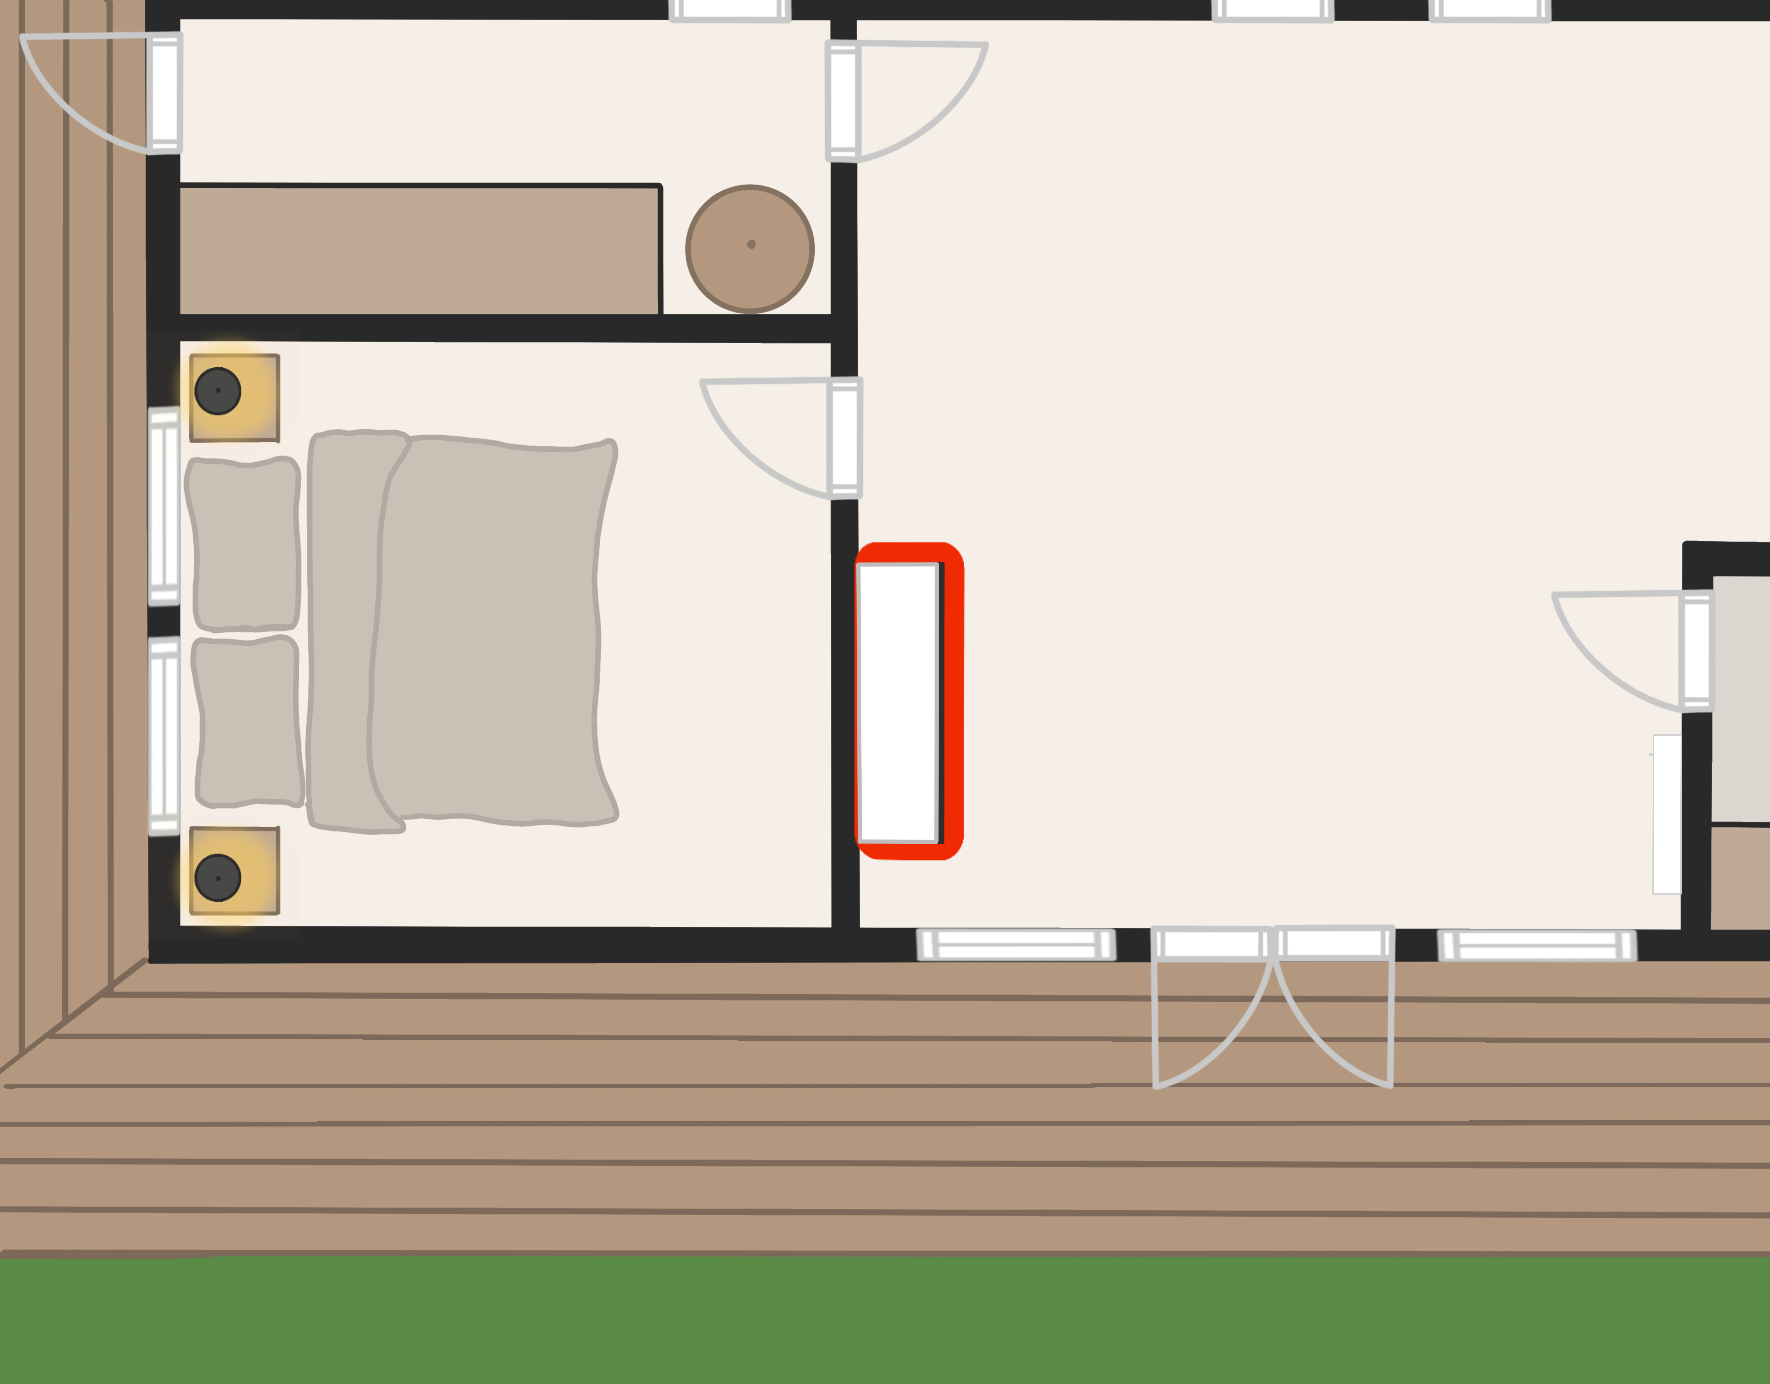
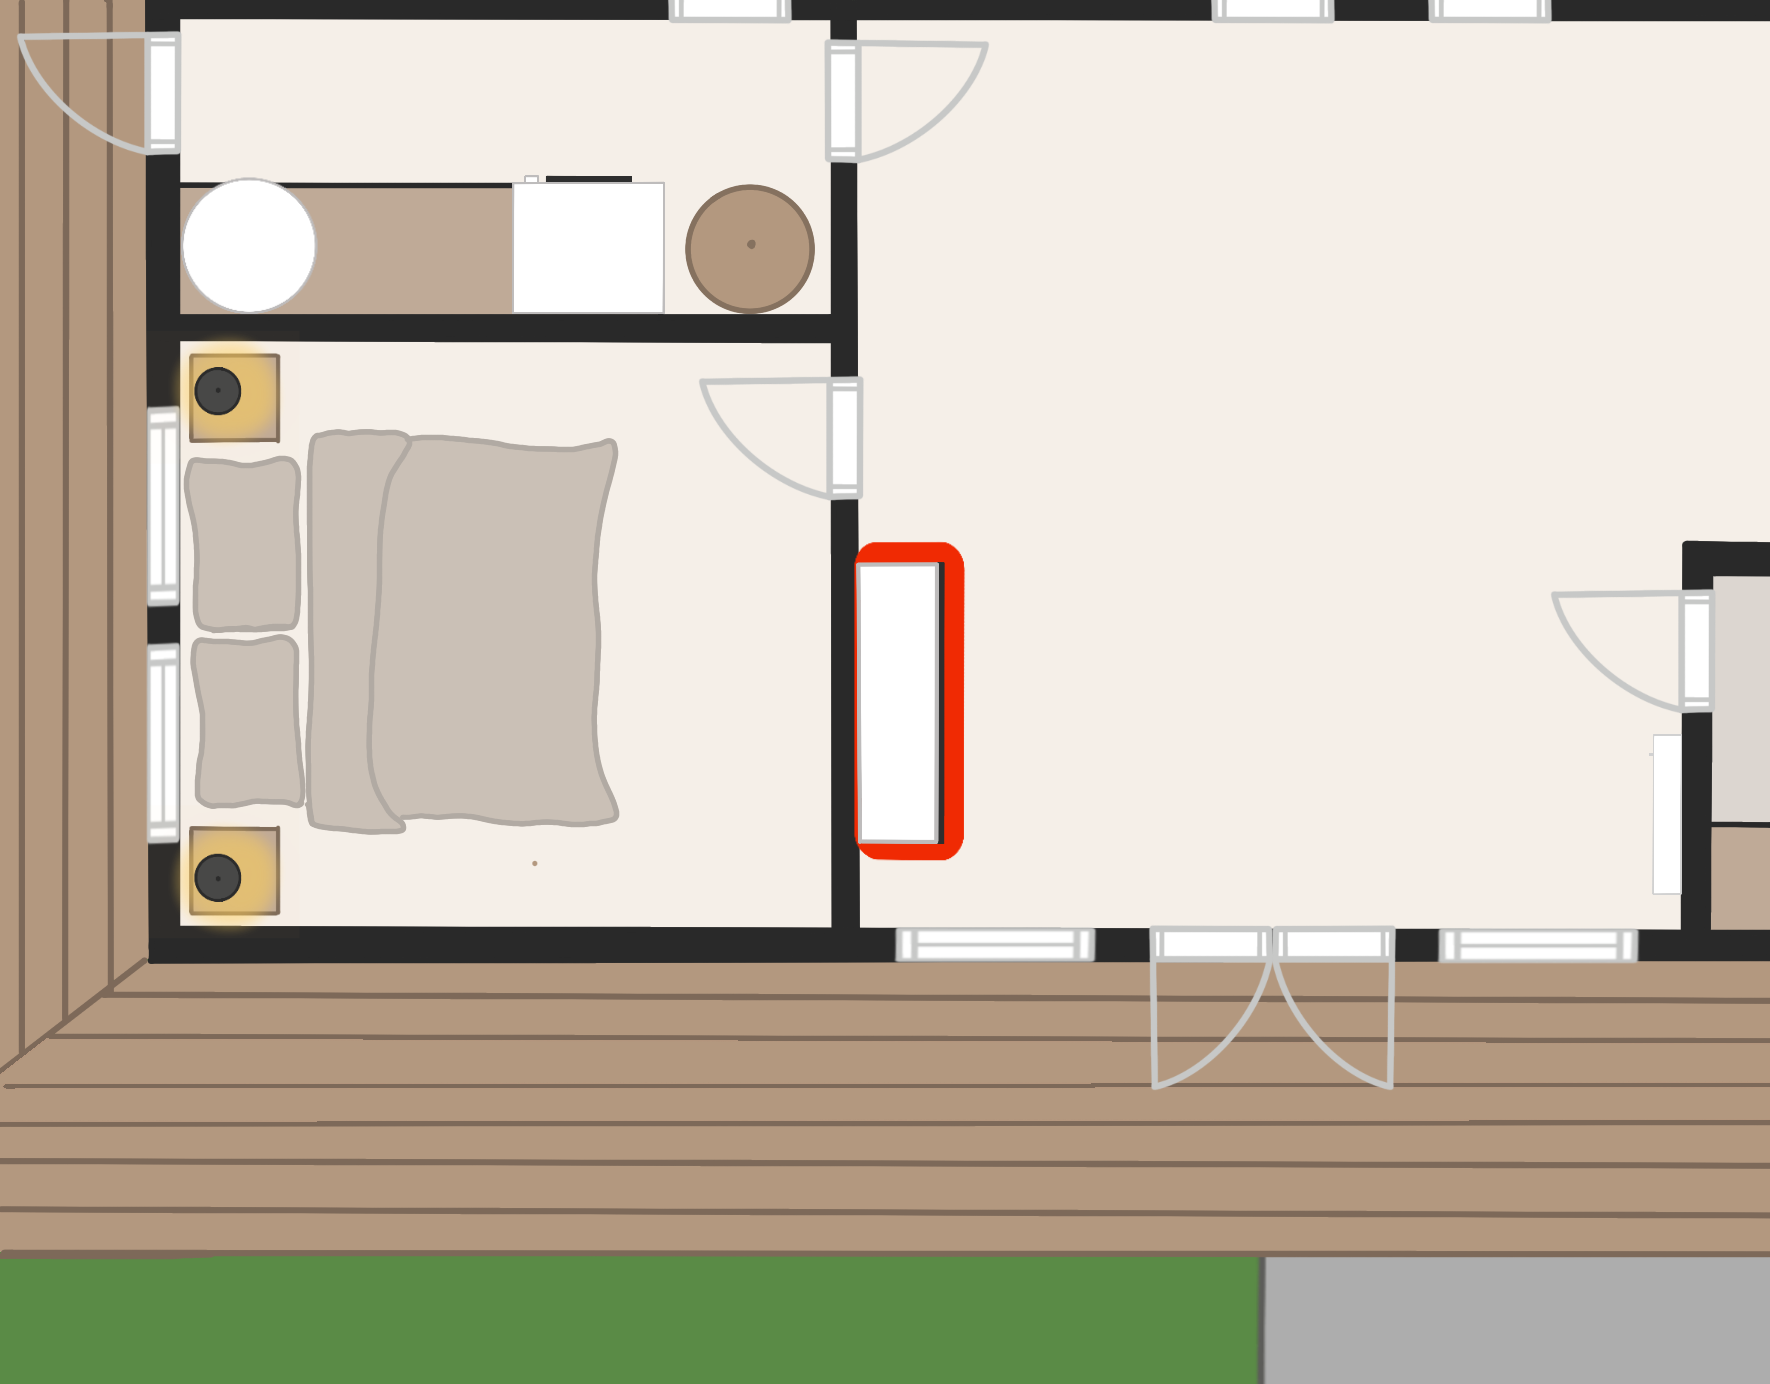
Component views (#70)
* Fixed small details in component views

* Fixed locations of components in the demo

* Few details fixed in texts

---------

diff --git a/frontend/src/components/EnergyComponentPage.jsx b/frontend/src/components/EnergyComponentPage.jsx
@@ -375,7 +375,7 @@ const EnergyComponentPage = () => {
                             <Typography 
                               variant="body2"
                               sx={{margin: 2}}
-                              >Total production {totalProduction} kWh
+                              >Total production: {totalProduction} kWh
                             </Typography>
                             {productionData.length > 0 &&
                               <BarChart
@@ -451,7 +451,7 @@ const EnergyComponentPage = () => {
                           <Typography 
                             variant="body2"
                             sx={{margin: 2}}
-                            >Total consumption {totalConsumption} kWh <br/>
+                            >Total consumption: {totalConsumption} kWh <br/>
                             Total price for consumed energy {(totalPrice/100).toFixed(2)} euros                     
                           </Typography>
                             {optimizedConsumption.length !== 24 && 

diff --git a/frontend/src/components/ElectricityPrice.jsx b/frontend/src/components/ElectricityPrice.jsx
@@ -7,7 +7,7 @@ const Price = ({ price }) => {
   if (price !== null && price !== undefined) {
     return (
       <Typography>
-        Current price is {price.toFixed(2)} cents / kWh
+        Current price: {price.toFixed(2)} cents / kWh
       </Typography>
     )
   } else {
@@ -23,7 +23,7 @@ const Consumption = ({ consumption }) => {
   if (consumption !== null && consumption !== undefined) {
     return (
       <Typography>
-        Consumption for current hour is {consumption.toFixed(2)} kWh
+        Current consumption: {consumption.toFixed(2)} kWh
       </Typography>
     )
   } else {
@@ -39,7 +39,7 @@ const TotalConsumption = ({ total }) => {
   if (total !== null && total !== undefined) {
     return (
       <Typography>
-        Total consumption during the demo is {total.toFixed(2)} kWh
+        Total consumption: {total.toFixed(2)} kWh
       </Typography>
     )
   } else {

diff --git a/frontend/src/components/visual_components/HotWaterHeater.jsx b/frontend/src/components/visual_components/HotWaterHeater.jsx
@@ -51,10 +51,10 @@ const HotWaterHeater = ({demoTime, demoStartTime}) => {
         className="hot-water-heater-energy-border"
         style={{
           position: 'absolute',
-          top: '22.5%',
-          left: '21%',
-          width: '3.7%',
-          height: '4.7%',
+          top: '22.6%',
+          left: '20.45%',
+          width: '4.1%',
+          height: '4.8%',
           opacity: window.sessionStorage.getItem(component.id)
         }}
       />
@@ -65,9 +65,9 @@ const HotWaterHeater = ({demoTime, demoStartTime}) => {
         className='hot-water-heater-image'
         style={{
           position: 'absolute',
-          top: '22.8%',
-          left: '21.3%',
-          width: '3%',
+          top: '23%',
+          left: '20.8%',
+          width: '3.4%',
           height: '4%',
         }}
         onClick={handleClick}

diff --git a/frontend/src/components/visual_components/WashingMachine.jsx b/frontend/src/components/visual_components/WashingMachine.jsx
@@ -48,9 +48,9 @@ const WashingMachine = ({demoTime, demoStartTime}) => {
         className="washing-machine-energy-border"
         style={{
           position: 'absolute',
-          top: '22.4%',
-          left: '27.3%',
-          width: '5.4%',
+          top: '22.8%',
+          left: '28.2%',
+          width: '4.8%',
           height: '4.8%',
           opacity: window.sessionStorage.getItem(component.id)
         }}
@@ -62,9 +62,9 @@ const WashingMachine = ({demoTime, demoStartTime}) => {
         className='washing-machine-image'
         style={{
           position: 'absolute',
-          top: '22.9%',
-          left: '27.7%',
-          width: '4.5%',
+          top: '23.1%',
+          left: '28.6%',
+          width: '4%',
           height: '4%',
         }}
         onClick={handleClick}

diff --git a/frontend/src/components/DemoClock.jsx b/frontend/src/components/DemoClock.jsx
@@ -144,7 +144,7 @@ function DemoClock({demoTime, demoPassedHours, onDemoTimeChange}) {
   return (
     <Box>
       <Box style={{padding: '1vh'}}>
-        Select speed:
+        Speed:
         <FormControl style={{ marginLeft: '10px '}}>
           <Select
             // defaultValue={1000/6}
@@ -162,7 +162,7 @@ function DemoClock({demoTime, demoPassedHours, onDemoTimeChange}) {
       </Box>
 
       <Box style={{padding: '1vh'}}>
-        Select time range:
+        Time range:
         <FormControl style={{ marginLeft: '10px '}}>
           <Select
             value={start}

diff --git a/frontend/src/components/visual_components/Freezer.jsx b/frontend/src/components/visual_components/Freezer.jsx
@@ -48,7 +48,7 @@ const Freezer = ({demoTime, demoStartTime}) => {
         className="freezer-energy-border"
         style={{
           position: 'absolute',
-          top: '8.5%',
+          top: '9%',
           left: '63.6%',
           width: '4.5%',
           height: '11%',
@@ -62,7 +62,7 @@ const Freezer = ({demoTime, demoStartTime}) => {
         className='freezer-image'
         style={{
           position: 'absolute',
-          top: '9%',
+          top: '9.5%',
           left: '63.8%',
           width: '4%',
           height: '10%',
